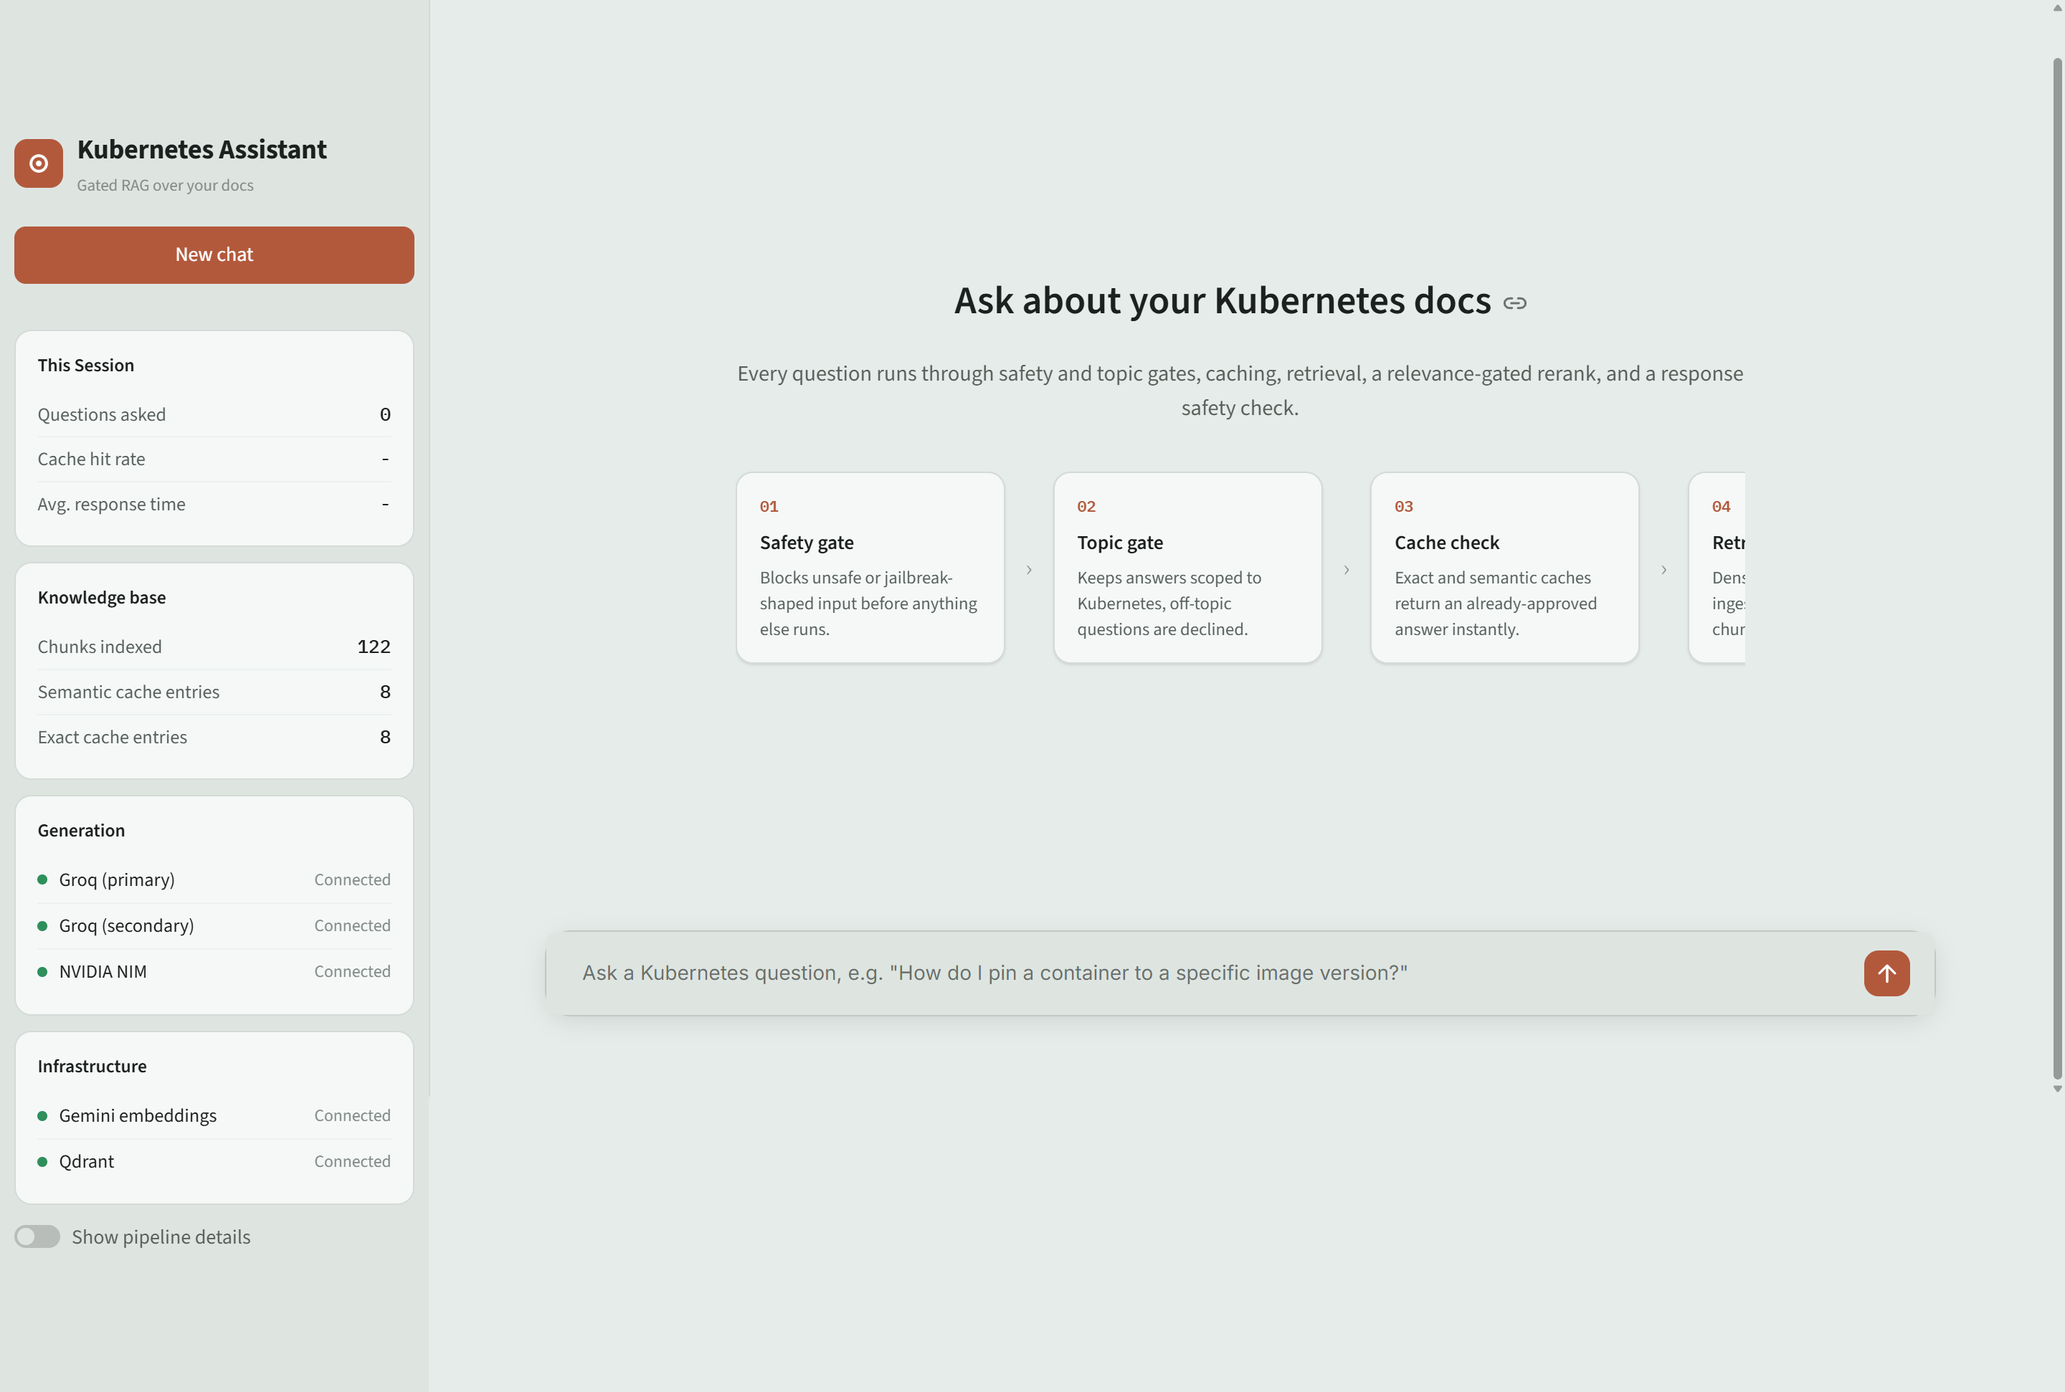
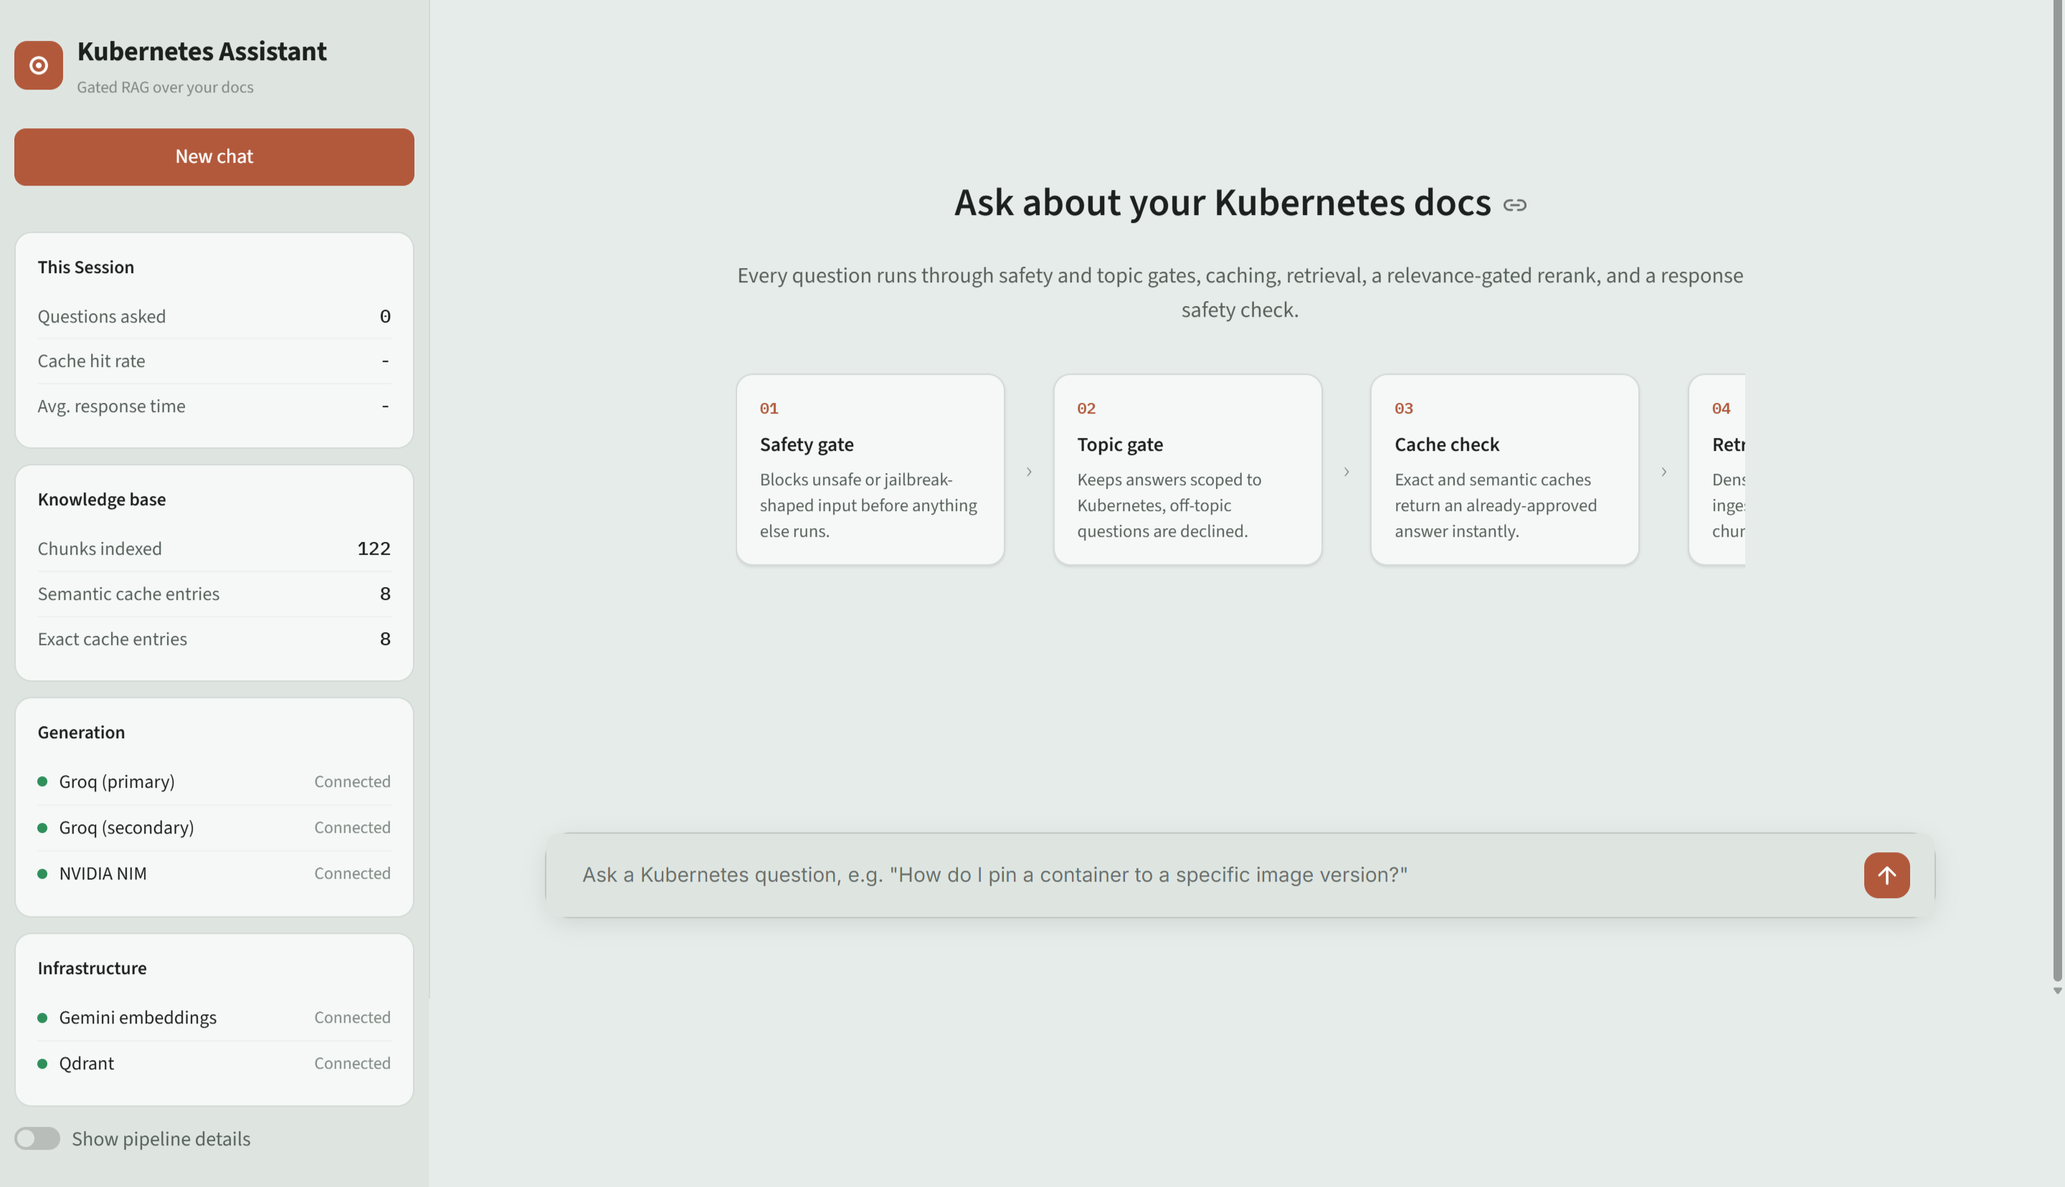
README and assets update

diff --git a/README.md b/README.md
@@ -2,6 +2,16 @@
 
 A production-oriented RAG system for Kubernetes Q&A that answers only from your own ingested docs, built around defense in depth: versioned two-layer caching, safety and topic gates on both the question and the generated answer, hard relevance thresholds on retrieval, provider failover, and end-to-end tracing.
 
+## Preview
+
+<p align="center">
+  <img src="assets/full_ui.png" width="720" alt="Streamlit landing view showing the Kubernetes question box and the pipeline stages rendered as a horizontal scroller">
+  <br>
+  <sub>Landing view: Title, description, question box, and the pipeline's own stages rendered inline.</sub>
+</p>
+
+> Additional screenshots in [`assets`](assets/).
+
 ## What this does
 
 Given a question, the pipeline:
@@ -47,7 +57,7 @@ flowchart TD
     WriteCache --> ReturnAnswer([Return answer])
 ```
 
-The important latency choice is deliberate: a first-turn exact-cache hit does not invoke any remote model (it still runs the free, local jailbreak-pattern check against the raw message before serving the cached answer, closing the gap where a jailbreak-shaped repeat of a previously-approved question would otherwise skip both gates entirely). Context-dependent turns do not use the early exact cache because the same short message can mean different things in different histories. Those turns are rewritten, safety-checked, topic-checked, then get a context-safe exact-cache check (also jailbreak-pattern-checked first) — and if that check finds a jailbreak-shaped rewritten question, it's routed through a full safety-gate recheck (deterministic pattern + NeMoGuard/fallback) on the rewritten text rather than just skipping the cache lookup and continuing on unchecked, since `safety_gate` earlier in the same turn only ever saw the pre-rewrite raw message.
+The important latency choice is deliberate: a first-turn exact-cache hit does not invoke any remote model (it still runs the free, local jailbreak-pattern check against the raw message before serving the cached answer, closing the gap where a jailbreak-shaped repeat of a previously-approved question would otherwise skip both gates entirely). Context-dependent turns do not use the early exact cache because the same short message can mean different things in different histories. Those turns are rewritten, safety-checked, topic-checked, then get a context-safe exact-cache check (also jailbreak-pattern-checked first), and if that check finds a jailbreak-shaped rewritten question, it's routed through a full safety-gate recheck (deterministic pattern + NeMoGuard/fallback) on the rewritten text rather than just skipping the cache lookup and continuing on unchecked, since `safety_gate` earlier in the same turn only ever saw the pre-rewrite raw message.
 
 ## Models
 
@@ -65,19 +75,19 @@ Split across three providers so a single account's rate limit can't take down ge
 
 ## Guardrails
 
-- **Fail-closed safety.** Known jailbreak-shaped requests are rejected locally with deterministic patterns, avoiding a remote call. Everything else goes through NeMoGuard content-safety, with a short timeout and an automatic circuit breaker; when the breaker is open or the call fails, the planner chain is used as a lower-confidence fallback. If neither path produces a usable verdict, the request is blocked.
-- **Rewritten questions get their own safety check.** A jailbreak-shaped standalone question that only emerges after history-based rewriting (the raw message looked innocuous; rewriting it against chat history produced text matching a known jailbreak pattern) is caught and blocked, not just skipped past the cache. `safety_gate` runs once per turn against the raw message, before any rewrite happens, so the late exact-cache lookup's jailbreak check routes into a dedicated safety-gate recheck against the rewritten text instead of falling through to retrieval and generation unchecked.
-- **The answer is checked too, not just the question.** The safety prompt and JSON schema always asked the classifier for a `Response Safety` verdict alongside `User Safety`; a response safety gate calls for it after generation and before the answer is shown or cached, using the same NeMoGuard/fallback/circuit-breaker machinery as the input-side gate.
-- **Topic gate defaults to the planner classifier, not NeMoGuard.** NVIDIA's hosted NeMoGuard topic-control endpoint has been unreliable in practice, a recurring server-side TensorRT-LLM/CUDA error, not something a client-side timeout or retry fixes, so `GUARDRAIL_SKIP_NEMOGUARD_TOPIC=true` by default routes topic checks through the planner chain (originally built as the outage fallback) instead. The dedicated model is opt-in for whenever NVIDIA's instance is confirmed healthy. Common greetings and thanks are allowed locally, avoiding a remote round-trip for obvious small talk. Topic failures fail closed when no usable verdict is available from either path.
-- **Rerank fail-closed by default.** A retrieval result that hasn't passed the rerank gate is not silently forwarded to generation. A FlashRank *crash* (as opposed to a real rerank producing zero survivors) is treated as an infrastructure failure and routed to the uncached "temporarily unavailable" answer, not the cached "no grounded documentation" one. If `RERANK_FAIL_CLOSED` is explicitly disabled, a crash falls back to raw retrieval similarity, gated by `RERANK_FALLBACK_SCORE_THRESHOLD` rather than forwarding every candidate ungated, since there's no rerank score to threshold on in that path.
-- **Generation outage degrades, it doesn't crash.** A full generation-provider outage (Groq, Groq secondary, and NIM all failing) degrades to the same uncached "temporarily unavailable" answer as a retrieval or rerank infrastructure failure, rather than surfacing a raw error.
+ - **Fail-closed safety:** Known jailbreak patterns are blocked locally. All other requests go through NeMoGuard with a short timeout and circuit breaker; failures fall back to the planner. If no usable verdict exists, block the request.
+- **Rewrite safety:** Rewritten questions are rechecked for jailbreaks. `safety_gate` runs on the raw message first, with a dedicated recheck if rewriting introduces a known pattern.
+- **Response safety:** Generated answers are safety-checked before being shown or cached, using the same NeMoGuard/fallback/circuit-breaker flow.
+- **Topic gating:** Planner classification is the default (`GUARDRAIL_SKIP_NEMOGUARD_TOPIC=true`) because NVIDIA's topic endpoint has recurring server-side failures. NeMoGuard topic checks are opt-in. Greetings and thanks are allowed locally. Topic checks fail closed without a usable verdict.
+- **Rerank fail-closed:** Only rerank-approved results reach generation. FlashRank crashes are treated as infrastructure failures and return the uncached 'temporarily unavailable' response. If `RERANK_FAIL_CLOSED=false`, raw similarity is allowed only above `RERANK_FALLBACK_SCORE_THRESHOLD`.
+- **Generation resilience:** If Groq, its secondary, and NIM all fail, return the same uncached 'temporarily unavailable' response instead of surfacing an error.
 
 ## Caching
 
-- **Exact match** uses `diskcache`, keyed by normalized question plus cache schema, policy, and corpus versions. Normalization strips only cosmetic punctuation (trailing `?`, quotes, brackets); it deliberately keeps `-`, `/`, `.`, and `:`, since those are meaningful in Kubernetes syntax (`apps/v1`, `pod.spec.containers`) and stripping them previously let two different questions collide onto the same cache key.
-- **Semantic match** uses Qdrant, filtered by the same version metadata so old entries can't silently survive a policy or cache-version change. Normalization is deterministic and cheap, there's no LLM canonicalization step. Gemini embeddings are persisted locally with a TTL and reused across requests by task type, model, dimension, and text.
-- **Cache writes happen in the background.** Qdrant and disk I/O are not on the critical response path; write failures are logged rather than changing the already-generated answer, and the background executor is drained on process exit so a write in flight isn't silently dropped.
-- **Corpus versioning is automatic after the first ingest.** `ingest.py` writes a content fingerprint to `.cache/corpus_version` after every successful run, and cache keys use that fingerprint instead of the static `CORPUS_VERSION` setting once it exists. A normal re-ingest, including an incremental one that only touches a few files, invalidates stale cached answers on its own. `--wipe` additionally deletes and recreates both Qdrant collections and clears the exact cache, for reclaiming space rather than for correctness.
+ - **Exact match:** Uses `diskcache`, keyed by the normalized question plus cache, policy, and corpus versions. Only cosmetic punctuation is stripped; Kubernetes-significant characters like `-`, `/`, `.`, and `:` are preserved to prevent collisions.
+- **Semantic match:** Uses Qdrant with the same version filters, preventing stale entries after policy or cache changes. Normalization is deterministic—no LLM canonicalization. Gemini embeddings are locally cached with a TTL and reused by task type, model, dimension, and text.
+- **Background writes:** Qdrant and disk writes happen off the critical path. Failures are logged without affecting the response, and in-flight writes are drained on shutdown.
+- **Automatic corpus invalidation:** Each successful ingest fingerprints the corpus into `.cache/corpus_version`; cache keys use this fingerprint once available. Any re-ingest automatically invalidates stale answers, including incremental updates. `--wipe` clears exact-cache data and recreates both Qdrant collections for space reclamation, not correctness.
 
 ## Provider latency budgets
 
@@ -104,19 +114,68 @@ CORPUS_VERSION=1
 TRACING_LOG_RAW_MESSAGES=false
 ```
 
-Increase `CACHE_POLICY_VERSION` whenever the safety/topic/cache policy changes in a way that makes an old answer unsuitable, this one is still manual, since "the policy changed" isn't something `ingest.py` can detect. `CORPUS_VERSION` is only a pre-first-ingest fallback now; once `ingest.py` has run at least once, the effective corpus version comes from `.cache/corpus_version`'s content fingerprint and updates automatically on every subsequent ingest. `TRACING_LOG_RAW_MESSAGES` controls whether raw user messages, as opposed to just a length and hash, are attached to Logfire spans; leave it `false` unless you're debugging locally against a private Logfire sink. `RERANK_FALLBACK_SCORE_THRESHOLD` only matters if `RERANK_FAIL_CLOSED=false`, it's the retrieval-similarity cutoff used in place of a rerank score when FlashRank itself has crashed.
+## Configuration Notes
 
-`SEMANTIC_CACHE_SIMILARITY_THRESHOLD` and `RERANK_SCORE_THRESHOLD` remain empirical tuning knobs. Retrieval and rerank score distributions should be evaluated on the real corpus before changing them.
+ - **`CACHE_POLICY_VERSION`:** Increment manually whenever safety, topic, or cache policy changes enough to invalidate existing answers. This cannot be inferred by `ingest.py`.
+- **`CORPUS_VERSION`:** Used only before the first ingest. Afterward, the effective version comes from `.cache/corpus_version` and updates automatically on every ingest.
+- **`TRACING_LOG_RAW_MESSAGES`:** Controls whether Logfire spans include raw user messages or only length/hash metadata. Keep `false` unless debugging locally with a private Logfire sink.
+- **`RERANK_FALLBACK_SCORE_THRESHOLD`:** Used only when `RERANK_FAIL_CLOSED=false`; it sets the retrieval-similarity cutoff when FlashRank crashes.
+- **`SEMANTIC_CACHE_SIMILARITY_THRESHOLD` / `RERANK_SCORE_THRESHOLD`:** Empirical tuning knobs. Evaluate score distributions on the real corpus before changing them.
 
 ## Evaluation
 
-`eval/run_eval.py` scores generation quality with [Ragas](https://docs.ragas.io/): faithfulness, answer relevancy, context precision, context recall, context entity recall, and semantic similarity against a reference answer.
+ `eval/run_eval.py` uses Ragas to evaluate generation quality across faithfulness, answer relevancy, context precision/recall, context entity recall, and semantic similarity. The judge is `gemini-3.5-flash` via Gemini’s OpenAI-compatible endpoint, keeping evaluation independent from the Groq/NIM generation models. Gemini embeddings are reused for similarity metrics.
 
-- The judge is `gemini-3.5-flash`, called through Gemini's OpenAI-compatible endpoint, chosen specifically because it's a different model family from both live generation chains (Groq/NIM `gpt-oss`, NIM `nemotron`), so it never grades a model from its own family. Embeddings for the similarity metrics reuse the project's own Gemini embedding function.
-- Scope note: this evaluates generation grounding, not the full gated pipeline. Each row in [`eval/eval_set.json`](eval/eval_set.json) supplies its own `retrieved_contexts` directly; if the row doesn't already include a precomputed `answer`, `run_eval.py` generates one fresh via `generate_main` on those contexts, it does not run the question through the safety/topic gates, caching, retrieval, or rerank. It's answering "given this context, does the model stay faithful to it," not "does the end-to-end pipeline retrieve the right context in the first place."
-- Gemini's free tier is far tighter than Groq's for `gemini-3.5-flash` (roughly 15 requests/minute at time of writing), and every row fires several judge and embedding calls concurrently, so scoring is capped at 2 rows in flight at once (`_JUDGE_CONCURRENCY` in `run_eval.py`) to stay under that limit even for a small eval set.
-- [`eval/eval_set.json`](eval/eval_set.json) currently holds 8 hand-written rows. That's enough to exercise the harness end to end, not enough to draw strong conclusions from, treat it as a starter set to grow rather than a finished benchmark.
-- Results are written to `eval/results.csv` per row, with summary statistics printed to stdout.
+ This evaluates **grounding given supplied context**, not the full pipeline. Each row in `eval/eval_set.json` provides its own `retrieved_contexts`; missing answers are generated directly with `generate_main`, bypassing safety/topic gates, caching, retrieval, and reranking. Evaluation is capped at two concurrent rows to stay within Gemini’s rate limits.
+
+ The current evaluation set contains eight hand-written examples—enough to validate the harness, but not enough for strong benchmark conclusions. Treat it as a starter set to expand. Per-row results are written to `eval/results.csv`, with summary statistics printed to stdout.
+
+## Project Structure
+
+```text
+kubernetes-gated-rag/
+├── .streamlit/config.toml          # Streamlit configuration
+├── ui/app.py                       # Streamlit chat UI
+│
+├── src/
+│   ├── config.py                   # environment loading and pipeline configuration
+│   ├── graph.py                    # pipeline graph wiring
+│   ├── tracing.py                  # Logfire tracing
+│   │
+│   ├── guardrails/
+│   │   ├── jailbreak_patterns.py   # deterministic jailbreak detection
+│   │   └── gates.py                # safety and topic gates
+│   │
+│   ├── ingestion/
+│   │   ├── chunking.py             # document chunking
+│   │   ├── filters.py              # ingestion relevance filtering
+│   │   └── parsers.py              # document parsing
+│   │
+│   ├── providers/
+│   │   ├── circuit_breaker.py      # provider failure/recovery handling
+│   │   ├── clients.py              # provider clients
+│   │   └── llm.py                  # generation, planning, and rewrite calls
+│   │
+│   └── retrieval/
+│       ├── cache.py                # exact and semantic cache operations
+│       ├── embeddings.py           # embedding generation and local cache
+│       ├── rerank.py               # FlashRank reranking and thresholds
+│       └── search.py               # Qdrant retrieval
+│
+├── eval/
+│   ├── dataset.py                  # eval_set.json loader + schema validation
+│   ├── eval_set.json               # 8-row starter set
+│   └── run_eval.py                 # Ragas scoring harness
+│
+├── assets/                         # screenshots, icons and static assets
+├── tests/                          # pipeline and guardrail tests
+│
+├── ingest.py                       # document ingestion entry point
+├── .env.example                    # environment variable template
+├── pytest.ini                      # pytest configuration
+├── requirements.txt                # Python dependencies
+└── README.md
+```
 
 ## Getting started
 
@@ -145,40 +204,6 @@ Increase `CACHE_POLICY_VERSION` whenever the safety/topic/cache policy changes i
 ```bash
 streamlit run ui/app.py            # live chat UI
 python -m eval.run_eval            # Ragas scoring against eval/eval_set.json
-```
-
-## Structure
-
-```text
-kubernetes-gated-rag/
-├── ui/app.py
-├── src/
-│   ├── config.py
-│   ├── graph.py
-│   ├── tracing.py
-│   ├── guardrails/
-│   │   ├── jailbreak_patterns.py
-│   │   └── gates.py
-│   ├── ingestion/
-│   │   ├── chunking.py
-│   │   ├── filters.py
-│   │   └── parsers.py
-│   ├── providers/
-│   │   ├── clients.py
-│   │   └── llm.py
-│   └── retrieval/
-│       ├── cache.py
-│       ├── embeddings.py
-│       ├── rerank.py
-│       └── search.py
-├── eval/
-│   ├── dataset.py              # eval_set.json loader + schema validation
-│   ├── run_eval.py             # Ragas scoring harness
-│   └── eval_set.json           # 8-row starter set
-├── tests/
-├── ingest.py
-├── requirements.txt
-└── .env.example
 ```
 
 ## Known limitations
